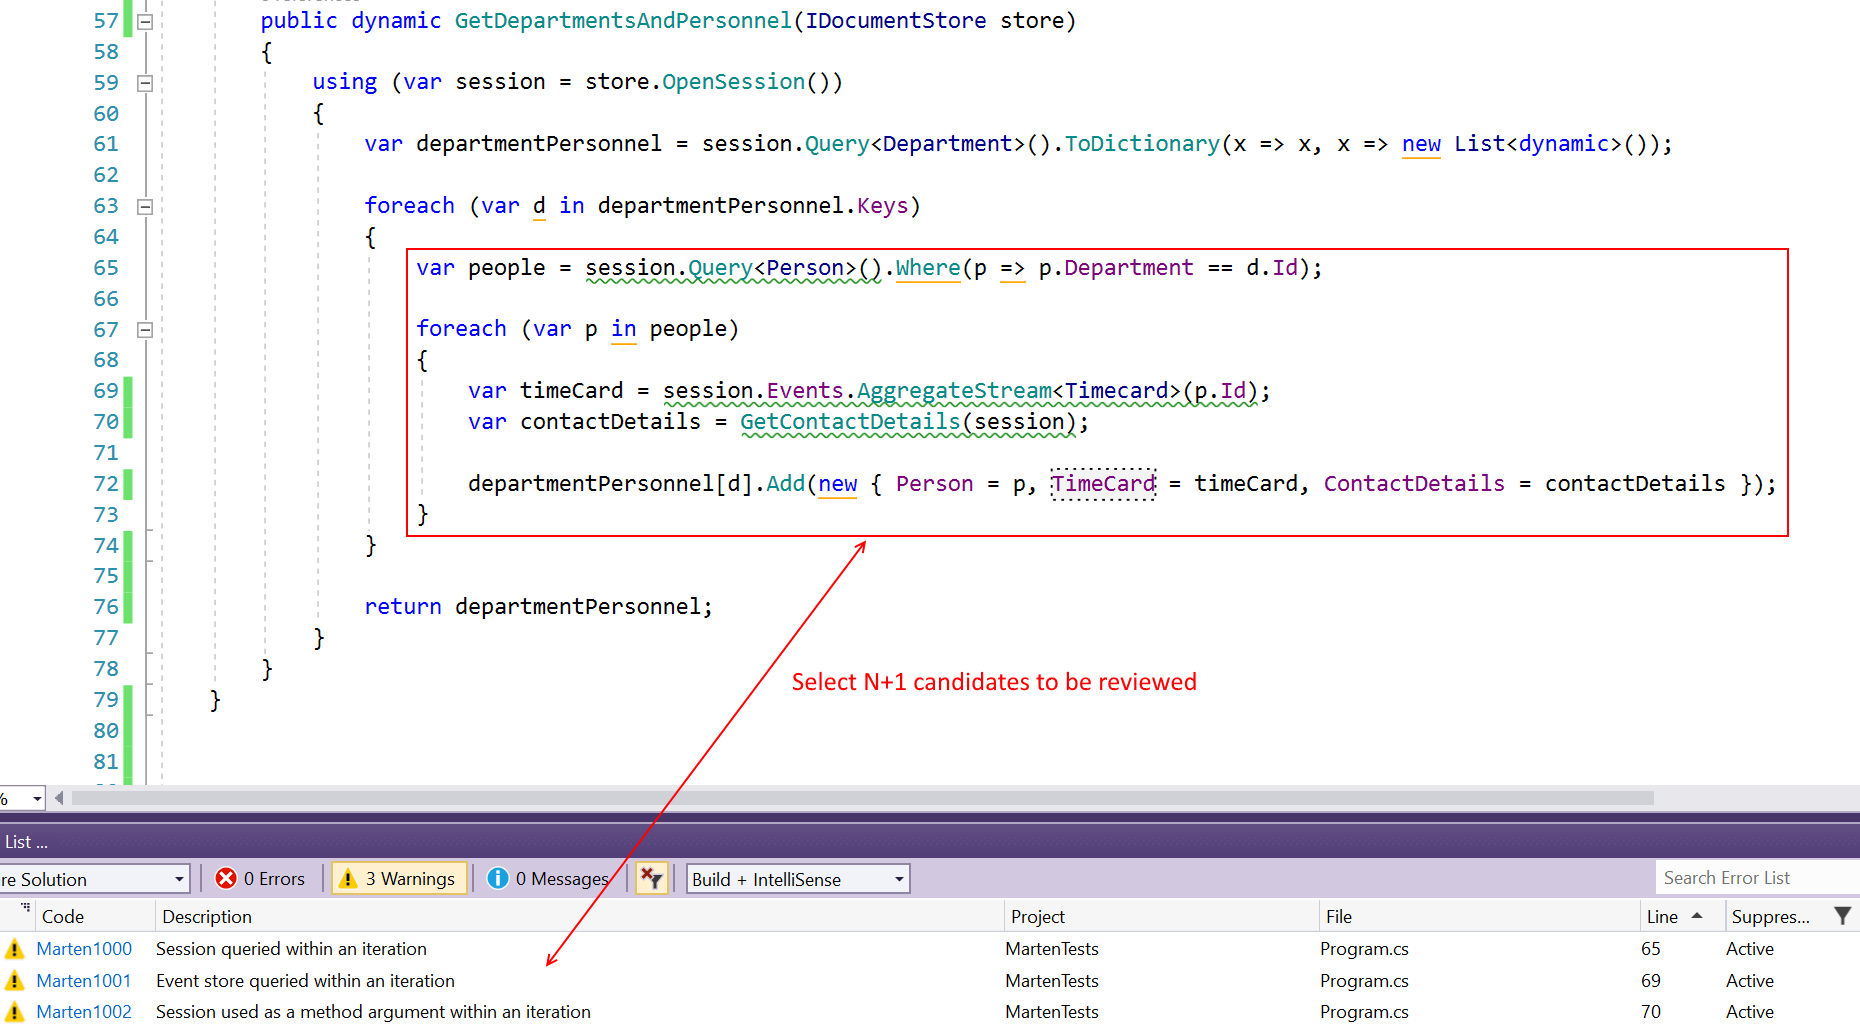
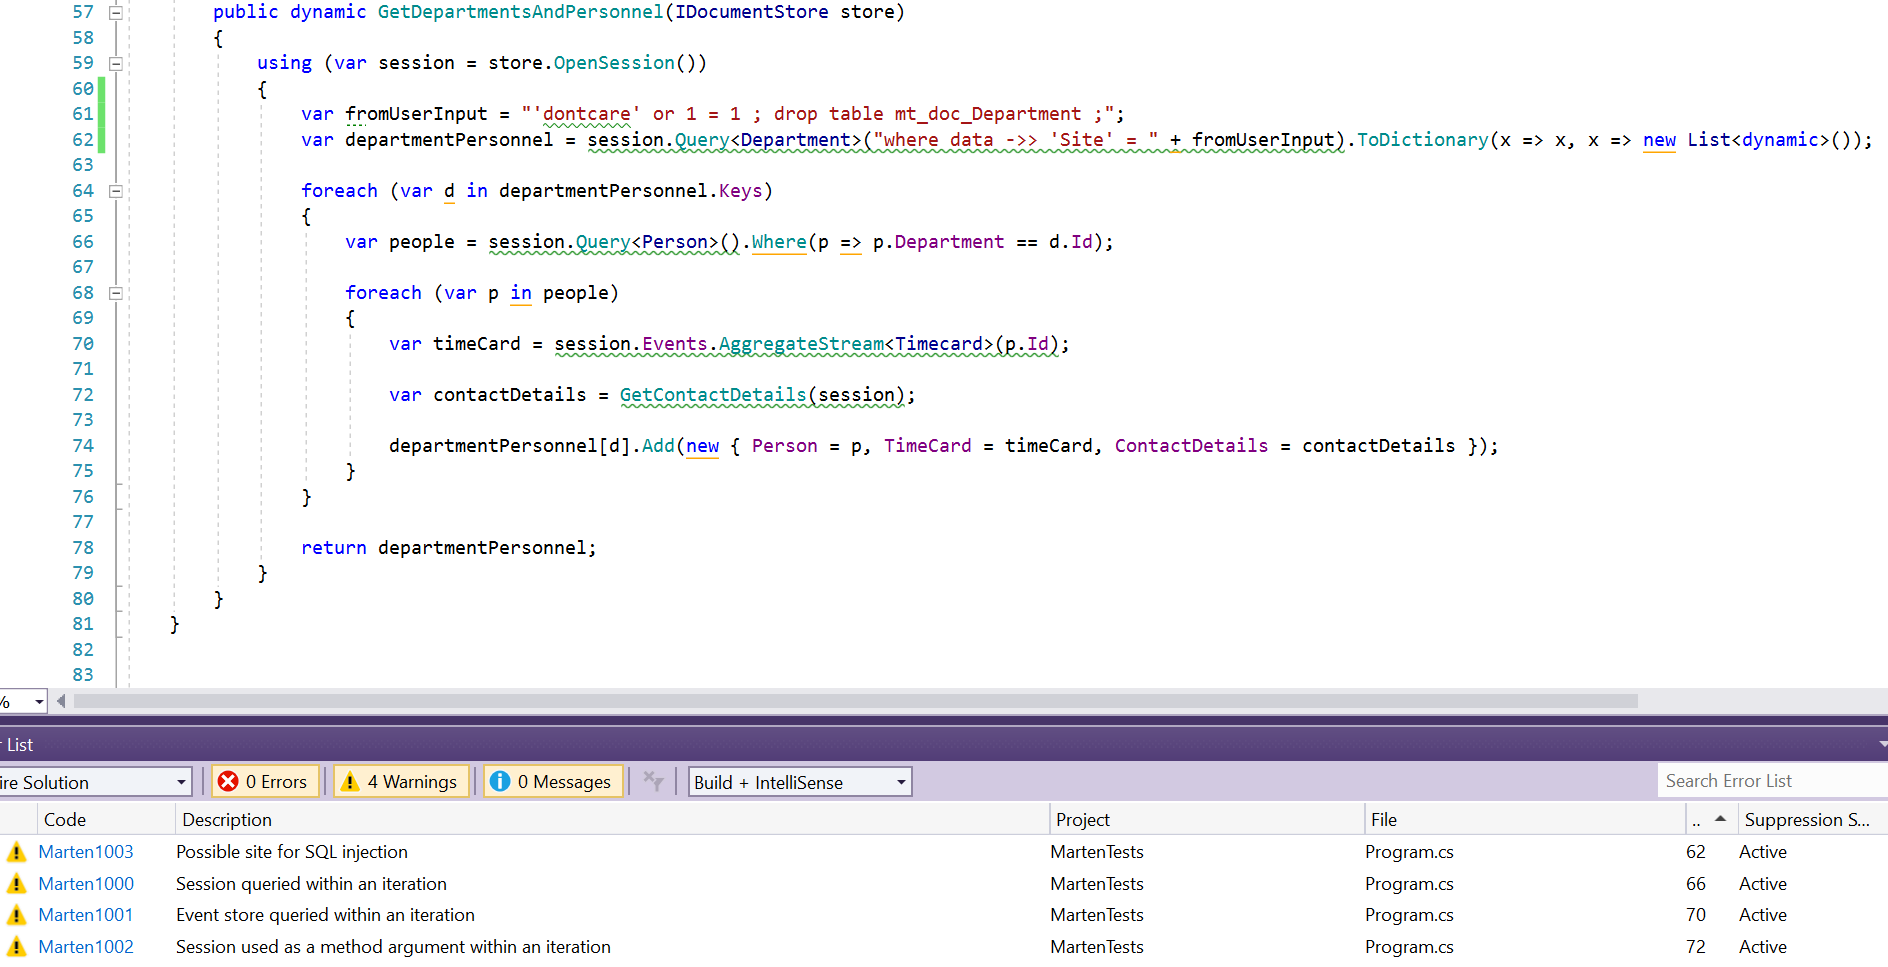
Analyzer to detect candidate sites for SQL injections

diff --git a/docs/_layouts/default.html b/docs/_layouts/default.html
@@ -5,6 +5,7 @@
 <head>
     <link rel="stylesheet" href="https://cdnjs.cloudflare.com/ajax/libs/uikit/3.0.0-beta.39/css/uikit.min.css"/>
     <link href="{{ "/css/app.css" | relative_url }}" rel="stylesheet">
+	{% seo %}
 </head>
 <body>
 

diff --git a/src/Marten.Analyzers/Usage/SqlInjectionAnalyzer.cs b/src/Marten.Analyzers/Usage/SqlInjectionAnalyzer.cs
@@ -1,0 +1,75 @@
+using System;
+using System.Collections.Immutable;
+using System.Linq;
+using Marten.Analyzers.Infrastructure;
+using Microsoft.CodeAnalysis;
+using Microsoft.CodeAnalysis.CSharp;
+using Microsoft.CodeAnalysis.CSharp.Syntax;
+using Microsoft.CodeAnalysis.Diagnostics;
+
+namespace Marten.Analyzers.Usage
+{
+	[DiagnosticAnalyzer(LanguageNames.CSharp)]
+	public sealed class SqlInjectionAnalyzer : MartenInvocationAnalyzer
+	{
+		public override ImmutableArray<DiagnosticDescriptor> SupportedDiagnostics { get; } =
+			ImmutableArray.Create(Descriptors.Marten1003SqlInjection);
+
+		public SqlInjectionAnalyzer() : base(
+			"IQuerySession.Query",
+			"IQuerySession.QueryAsync",
+			"IBatchedQuery.Query")
+		{
+		}
+
+		protected override void Analyze(SyntaxNodeAnalysisContext context,
+			InvocationExpressionSyntax invocationExpressionSyntax,
+			IMethodSymbol methodSymbol)
+		{
+			var p = methodSymbol.Parameters.FirstOrDefault();
+
+			if (p == null || !p.ToDisplayString().Equals("string", StringComparison.Ordinal))
+			{
+				return;
+			}
+
+			var arg = invocationExpressionSyntax.ArgumentList.Arguments.FirstOrDefault();
+
+			// ReSharper disable once UsePatternMatching
+			var expr = arg?.Expression as BinaryExpressionSyntax;
+
+			if (expr == null)
+			{
+				return;
+			}
+			
+			if (arg.Expression.DescendantNodes().Aggregate(new byte(), (t, x) =>
+			{
+				switch (x)
+				{
+					case LiteralExpressionSyntax e:
+						t |= e.IsKind(SyntaxKind.StringLiteralExpression) ? (byte)0x1 : (byte)0x0;
+						break;
+					case IdentifierNameSyntax _:
+						t |= 0x2;
+						break;
+				}
+
+				return t;
+			}) != 0x3 || context.CancellationToken.IsCancellationRequested)
+			{
+				return;
+			}			
+			
+			var builder = ImmutableDictionary.CreateBuilder<string, string>();
+			builder["MethodName"] = methodSymbol.Name;
+
+			context.ReportDiagnostic(Diagnostic.Create(
+				SupportedDiagnostics[0],
+				invocationExpressionSyntax.GetLocation(), builder.ToImmutable(), SymbolDisplay.ToDisplayString(methodSymbol,
+					SymbolDisplayFormat.CSharpShortErrorMessageFormat.WithParameterOptions(
+						SymbolDisplayParameterOptions.None))));
+
+		}
+	}
+}

diff --git a/src/Marten.Analyzers.Tests/Usage/SqlInjectionAnalyzerTests.cs b/src/Marten.Analyzers.Tests/Usage/SqlInjectionAnalyzerTests.cs
@@ -1,0 +1,55 @@
+using Marten.Analyzers.Tests.Infrastructure;
+using Marten.Analyzers.Usage;
+using Microsoft.CodeAnalysis;
+using Microsoft.CodeAnalysis.Diagnostics;
+using Xunit;
+
+namespace Marten.Analyzers.Tests.Usage
+{
+	public sealed class SqlInjectionAnalyzerTests
+	{
+		private readonly DiagnosticAnalyzer analyzer = new SqlInjectionAnalyzer();
+
+		[Fact]
+		public async void CanIdentifySqlInjectionCandidates()
+		{
+			var diagnostics = await TestHelper.GetDiagnosticsAsync(analyzer,
+				@"using System;
+using Marten;
+
+class TestClass { 
+	
+	void TestMethod() 
+	{
+		IDocumentStore store = null;
+
+		using (var session = store.OpenSession())
+		{
+			string n = "" and 1 = 1 ; drop table mt_doc_testclass; "";
+			session.Query<TestClass>(""where data->> 'Id' = 'ABC' "" + n);			
+			session.QueryAsync<TestClass>(""where data->> 'Id' = 'ABC' "" + n);
+			session.QueryAsync<TestClass>(n + ""where data->> 'Id' = 'ABC' "");
+			session.Query<TestClass>(""where data->> 'Id' = 'ABC'"");
+			session.Query<TestClass>(""where data->> 'Id' = ?"", ""ABC"");
+			session.Query<TestClass>();
+			session.Query<TestClass>(""where data->> 'Id' = 'ABC' "" + "" and 1 = 1 "");
+		}   
+	}
+}");
+
+			Assert.Collection(diagnostics, d =>
+			{
+				Assert.Equal(DiagnosticSeverity.Warning, d.Severity);
+				Assert.Equal(12, d.Location.GetLineSpan().StartLinePosition.Line);
+			}, d =>
+			{
+				Assert.Equal(DiagnosticSeverity.Warning, d.Severity);
+				Assert.Equal(13, d.Location.GetLineSpan().StartLinePosition.Line);
+			}, d =>
+			{
+				Assert.Equal(DiagnosticSeverity.Warning, d.Severity);
+				Assert.Equal(14, d.Location.GetLineSpan().StartLinePosition.Line);
+			});
+		}
+	}
+}

diff --git a/src/Marten.Analyzers/Infrastructure/MartenInvocationAndParameterAnalyzer.cs b/src/Marten.Analyzers/Infrastructure/MartenInvocationAndParameterAnalyzer.cs
@@ -1,0 +1,38 @@
+using System.Collections.Generic;
+using Microsoft.CodeAnalysis;
+using Microsoft.CodeAnalysis.CSharp;
+using Microsoft.CodeAnalysis.CSharp.Syntax;
+using Microsoft.CodeAnalysis.Diagnostics;
+
+namespace Marten.Analyzers.Infrastructure
+{
+	public abstract class MartenInvocationAndParameterAnalyzer : MartenAnalyzer, IOnMethodInvocation, IOnMethodParameter
+	{
+		public abstract HashSet<string> OnMethods { get; }
+		public abstract HashSet<string> OnParameters { get; }
+
+		protected override void AnalyzeCompilation(CompilationStartAnalysisContext ctx, MartenContext martenCtx)
+		{
+			ctx.RegisterSyntaxNodeAction(context =>
+			{
+				var none = (InvocationExpressionSyntax)context.Node;
+				var symbol = context.SemanticModel.GetSymbolInfo(none);
+
+				if (symbol.Symbol?.Kind != SymbolKind.Method)
+				{
+					return;
+				}
+
+				var methodSymbol = (IMethodSymbol)symbol.Symbol;
+
+				if (this.MatchInvocation(methodSymbol) && this.MatchInvocationParameters(methodSymbol))
+				{
+					Analyze(context, none, methodSymbol);
+				}
+
+			}, SyntaxKind.InvocationExpression);
+		}
+
+		protected abstract void Analyze(SyntaxNodeAnalysisContext context, InvocationExpressionSyntax invocationExpressionSyntax, IMethodSymbol methodSymbol);
+	}
+}

diff --git a/src/Marten.Analyzers/Infrastructure/MartenInvocationAnalyzer.cs b/src/Marten.Analyzers/Infrastructure/MartenInvocationAnalyzer.cs
@@ -6,14 +6,14 @@ using Microsoft.CodeAnalysis.CSharp.Syntax;
 using Microsoft.CodeAnalysis.Diagnostics;
 
 namespace Marten.Analyzers.Infrastructure
-{    
-    public abstract class MartenInvocationAnalyzer : MartenAnalyzer
+{
+	public abstract class MartenInvocationAnalyzer : MartenAnalyzer
     {
-        private readonly HashSet<string> onMethods;
+	    protected readonly HashSet<string> OnMethods;
 
         protected MartenInvocationAnalyzer(params string[] methods)
         {
-            onMethods = new HashSet<string>(methods, StringComparer.Ordinal);
+            OnMethods = new HashSet<string>(methods, StringComparer.Ordinal);
         }
 
         protected override void AnalyzeCompilation(CompilationStartAnalysisContext ctx, MartenContext martenCtx)
@@ -30,7 +30,7 @@ namespace Marten.Analyzers.Infrastructure
 
                 var methodSymbol = (IMethodSymbol) symbol.Symbol;
 
-                if (onMethods.Contains($"{methodSymbol.ContainingType.Name}.{methodSymbol.Name}"))
+                if (OnMethods.Contains($"{methodSymbol.ContainingType.Name}.{methodSymbol.Name}"))
                 {
                     Analyze(context, none, methodSymbol);
                 }

diff --git a/src/Marten.Analyzers/Descriptors.cs b/src/Marten.Analyzers/Descriptors.cs
@@ -13,5 +13,6 @@ namespace Marten.Analyzers
 	    internal static readonly DiagnosticDescriptor Marten1000SelectNPlus1Candidate = Rule("Marten1000", "Session queried within an iteration", RuleCategory.Usage, DiagnosticSeverity.Warning, "Session queried within an iteration");
 	    internal static readonly DiagnosticDescriptor Marten1001EventStoreSelectNPlus1Candidate = Rule("Marten1001", "Event store queried within an iteration", RuleCategory.Usage, DiagnosticSeverity.Warning, "Event store queried within an iteration");
         internal static readonly DiagnosticDescriptor Marten1002SessionAsMethodArgumentInIteration = Rule("Marten1002", "Session used as a method argument within an iteration", RuleCategory.Usage, DiagnosticSeverity.Warning, "Session used as a method argument within an iteration");
-    }
+	    internal static readonly DiagnosticDescriptor Marten1003SqlInjection = Rule("Marten1003", "Possible site for SQL injection", RuleCategory.Usage, DiagnosticSeverity.Warning, "Possible site for SQL injection");
+	}
 }

diff --git a/src/Marten.Analyzers/Usage/SessionAsMethodArgumentInIteration.cs b/src/Marten.Analyzers/Usage/SessionAsMethodArgumentInIteration.cs
@@ -42,8 +42,13 @@ namespace Marten.Analyzers.Usage
 		    // ReSharper disable once InvertIf
 		    if (ancestors)
 		    {
-		        var args = invocationExpressionSyntax.ArgumentList.Arguments.Select(x => context.SemanticModel.GetTypeInfo(x.Expression))
+		        var args = invocationExpressionSyntax.ArgumentList.Arguments.Select(x => context.SemanticModel.GetTypeInfo(x.Expression, context.CancellationToken))
 		            .ToArray();
+
+			    if (context.CancellationToken.IsCancellationRequested)
+			    {
+				    return;
+			    }
 
 		        if (!args.Any(x => OnParameters.Any(y => y.Equals(x.Type.ToDisplayString(), StringComparison.Ordinal))))
 		        {

diff --git a/src/Marten.Analyzers/Infrastructure/OnInvocationParameterMixins.cs b/src/Marten.Analyzers/Infrastructure/OnInvocationParameterMixins.cs
@@ -1,0 +1,14 @@
+using System;
+using System.Linq;
+using Microsoft.CodeAnalysis;
+
+namespace Marten.Analyzers.Infrastructure
+{
+	public static class OnInvocationParameterMixins
+	{
+		public static bool MatchInvocationParameters(this IOnMethodParameter instance, IMethodSymbol methodSymbol)
+		{
+			return methodSymbol.Parameters.Any(x => instance.OnParameters.Any(t => t.Equals(x.ToDisplayString(), StringComparison.Ordinal)));
+		}
+	}
+}

diff --git a/src/Marten.Analyzers/Infrastructure/OnInvocationMixins.cs b/src/Marten.Analyzers/Infrastructure/OnInvocationMixins.cs
@@ -1,0 +1,12 @@
+using Microsoft.CodeAnalysis;
+
+namespace Marten.Analyzers.Infrastructure
+{
+	public static class OnInvocationMixins
+	{
+		public static bool MatchInvocation(this IOnMethodInvocation instance, IMethodSymbol methodSymbol)
+		{
+			return instance.OnMethods.Contains($"{methodSymbol.ContainingType.Name}.{methodSymbol.Name}");
+		}
+	}
+}

diff --git a/src/Marten.Analyzers/Infrastructure/IOnMethodParameter.cs b/src/Marten.Analyzers/Infrastructure/IOnMethodParameter.cs
@@ -1,0 +1,9 @@
+using System.Collections.Generic;
+
+namespace Marten.Analyzers.Infrastructure
+{
+	public interface IOnMethodParameter
+	{
+		HashSet<string> OnParameters { get; }
+	}
+}

diff --git a/src/Marten.Analyzers/Infrastructure/IOnMethodInvocation.cs b/src/Marten.Analyzers/Infrastructure/IOnMethodInvocation.cs
@@ -1,0 +1,9 @@
+using System.Collections.Generic;
+
+namespace Marten.Analyzers.Infrastructure
+{
+	public interface IOnMethodInvocation
+	{
+		HashSet<string> OnMethods { get; }
+	}
+}

diff --git a/docs/_rules/Marten1003.md b/docs/_rules/Marten1003.md
@@ -1,0 +1,35 @@
+---
+title: Marten1003
+description: Possible site for SQL injection
+category: Usage
+severity: Warning
+---
+
+## Cause
+
+String concatenation is used to build a SQL query (`IQuerySession.Query`, `IQuerySession.QueryAsync`, `IBatchedQuery.Query`).
+
+## Reason for rule
+
+Building a SQL query through string concatenation can create a site for [SQL injection](https://en.wikipedia.org/wiki/SQL_injection) whenever user input is used. String concatenation can have adverse performance effects in execution of the query (execution plan caching).
+
+## How to fix violations
+
+Use parameterized queries. See [Querying with Postgresql SQL](http://jasperfx.github.io/marten/documentation/documents/querying/sql/) for more.
+
+## Examples
+
+### Violates
+
+```csharp
+var assigneeId = FromUserInput();
+// assigneeId = "'dontcare' or 1 = 1 ; drop table mt_doc_issue ;";
+var user = session.Query<Issue>("where data ->> 'AssigneeId' = " + assigneeId);
+```
+
+### Does not violate
+
+```csharp
+var assigneeId = FromUserInput();
+var user = session.Query<Issue>("where data ->> 'AssigneeId' = ?", assigneeId);
+```
